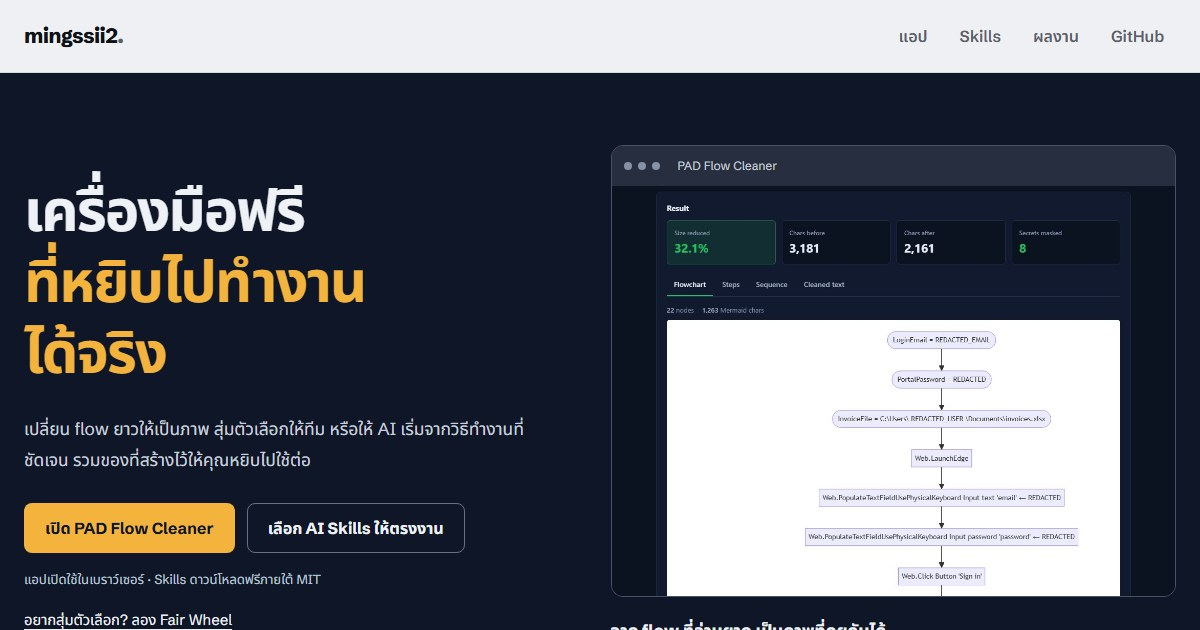
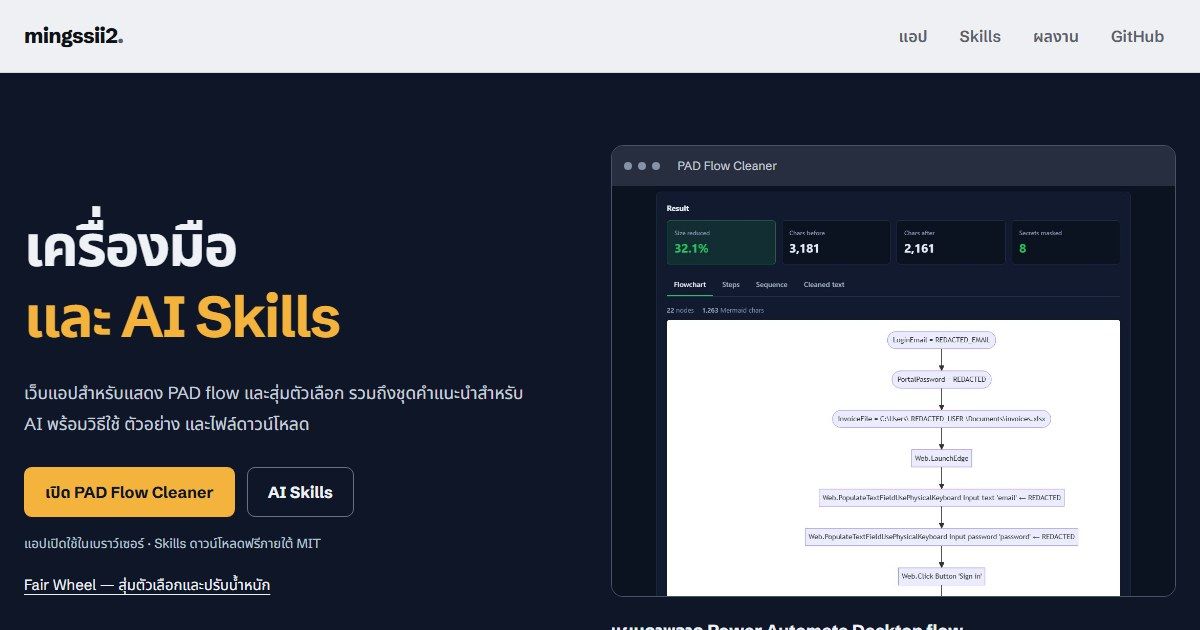
refine: use neutral task descriptions

diff --git a/index.html b/index.html
@@ -2,10 +2,10 @@
 <html lang="th">
 <head>
 <meta charset="utf-8"><meta name="viewport" content="width=device-width, initial-scale=1, viewport-fit=cover">
-<title>mingssii2 — เครื่องมือฟรีและ AI Skills สำหรับงานจริง</title>
+<title>mingssii2 — เว็บแอปและ AI Skills</title>
 <meta name="description" content="อ่าน PAD flow ให้เป็นภาพ สุ่มตัวเลือกด้วย Fair Wheel และเลือก AI Skills สำหรับวางแผน ค้นคว้า เขียนโค้ด และตรวจสคริปต์ พร้อมตัวอย่าง วิธีใช้ และดาวน์โหลดฟรี">
-<meta property="og:title" content="เครื่องมือฟรี ที่หยิบไปทำงานได้จริง — mingssii2">
-<meta property="og:description" content="เปิดแอปใช้ในเบราว์เซอร์ หรือเลือก AI Skills ตามงานที่อยากทำ พร้อมตัวอย่างและ MIT สำหรับชุด Skills">
+<meta property="og:title" content="เว็บแอปและ AI Skills — mingssii2">
+<meta property="og:description" content="เว็บแอปสำหรับ PAD flow และการสุ่มตัวเลือก พร้อม AI Skills วิธีใช้ ตัวอย่างคำสั่ง และไฟล์ดาวน์โหลดภายใต้ MIT">
 <meta property="og:image" content="https://mingssii2.github.io/assets/preview.jpg"><meta property="og:image:alt" content="เครื่องมือฟรีและ AI Skills ของ mingssii2 พร้อมภาพ PAD Flow Cleaner">
 <meta property="og:url" content="https://mingssii2.github.io/"><meta name="theme-color" content="#0f1628">
 <link rel="icon" href="favicon.svg" type="image/svg+xml"><link rel="preconnect" href="https://fonts.googleapis.com"><link rel="preconnect" href="https://fonts.gstatic.com" crossorigin>
@@ -17,107 +17,107 @@
 <ul><li><a href="#featured">แอป</a></li><li><a href="#skills">Skills</a></li><li><a href="#work">ผลงาน</a></li><li class="wide"><a href="https://github.com/mingssii2" target="_blank" rel="noopener">GitHub</a></li></ul></div></nav>
 <main id="main" tabindex="-1">
 <header class="hero" id="top"><div class="wrap hero-grid"><div class="hero-copy">
-<h1>เครื่องมือฟรี<br><span>ที่หยิบไปทำงาน<br>ได้จริง</span></h1>
-<p class="hero-description">เปลี่ยน flow ยาวให้เป็นภาพ สุ่มตัวเลือกให้ทีม หรือให้ AI เริ่มจากวิธีทำงานที่ชัดเจน รวมของที่สร้างไว้ให้คุณหยิบไปใช้ต่อ</p>
-<div class="hero-actions"><a class="button primary" href="https://mingssii2.github.io/pad-flow-cleaner/" target="_blank" rel="noopener">เปิด PAD Flow Cleaner</a><a class="button secondary" href="#skills">เลือก AI Skills ให้ตรงงาน</a></div>
+<h1>เครื่องมือ<br><span>และ AI Skills</span></h1>
+<p class="hero-description">เว็บแอปสำหรับแสดง PAD flow และสุ่มตัวเลือก รวมถึงชุดคำแนะนำสำหรับ AI พร้อมวิธีใช้ ตัวอย่าง และไฟล์ดาวน์โหลด</p>
+<div class="hero-actions"><a class="button primary" href="https://mingssii2.github.io/pad-flow-cleaner/" target="_blank" rel="noopener">เปิด PAD Flow Cleaner</a><a class="button secondary" href="#skills">AI Skills</a></div>
 <p class="hero-note">แอปเปิดใช้ในเบราว์เซอร์ · Skills ดาวน์โหลดฟรีภายใต้ MIT</p>
-<a class="hero-more" href="https://mingssii2.github.io/wheel/" target="_blank" rel="noopener">อยากสุ่มตัวเลือก? ลอง Fair Wheel</a>
+<a class="hero-more" href="https://mingssii2.github.io/wheel/" target="_blank" rel="noopener">Fair Wheel — สุ่มตัวเลือกและปรับน้ำหนัก</a>
 </div><figure class="hero-proof"><div class="browser"><div class="bar"><i></i><i></i><i></i><span>PAD Flow Cleaner</span></div><img src="assets/shot-pad-result.jpg" width="1100" height="800" alt="ผลจาก flow ตัวอย่างใน PAD Flow Cleaner แสดงแผนภาพและข้อความที่ปิดข้อมูลตามรูปแบบที่ตรวจพบ" fetchpriority="high"></div>
-<figcaption><strong>จาก flow ที่อ่านยาก เป็นภาพที่คุยกันได้</strong><span>ภาพผลลัพธ์จาก flow ตัวอย่างในแอป</span></figcaption></figure></div></header>
+<figcaption><strong>แผนภาพจาก Power Automate Desktop flow</strong><span>ภาพผลลัพธ์จาก flow ตัวอย่างในแอป</span></figcaption></figure></div></header>
 
 <section class="featured" id="featured" aria-labelledby="apps-heading"><div class="wrap">
-<div class="section-head"><h2 id="apps-heading">เปิดแล้วลองได้เลย</h2><p>แอปฟรีในเบราว์เซอร์ ไม่ต้องสมัครสมาชิก</p></div>
-<article class="feature pad"><div class="copy"><h3>อ่าน flow ให้เข้าใจ<br>ก่อนส่งต่อให้ใคร</h3><p>วาง flow จาก Power Automate Desktop เพื่อดูแผนภาพ สรุปขั้นตอน และข้อความฉบับย่อ ใช้คุยกับทีม หรือตรวจงานก่อนนำไปให้ AI ช่วยต่อ</p>
-<ul><li>มี flow ตัวอย่างให้ลอง</li><li>ประมวลผลในเบราว์เซอร์</li><li>ดาวน์โหลดผลลัพธ์ได้</li></ul>
-<div class="feature-actions"><a class="button primary" href="https://mingssii2.github.io/pad-flow-cleaner/" target="_blank" rel="noopener">ลอง PAD Flow Cleaner ฟรี</a><a class="text-link" href="https://github.com/mingssii2/pad-flow-cleaner" target="_blank" rel="noopener">อ่าน source</a></div>
+<div class="section-head"><h2 id="apps-heading">เว็บแอป</h2><p>แอปฟรีในเบราว์เซอร์ ไม่ต้องสมัครสมาชิก</p></div>
+<article class="feature pad"><div class="copy"><h3>PAD Flow Cleaner</h3><p>วาง flow จาก Power Automate Desktop เพื่อดูแผนภาพ สรุปขั้นตอน และข้อความฉบับย่อ ใช้คุยกับทีม หรือตรวจงานก่อนนำไปให้ AI ช่วยต่อ</p>
+<ul><li>มี flow ตัวอย่างในแอป</li><li>ประมวลผลในเบราว์เซอร์</li><li>ดาวน์โหลดผลลัพธ์ได้</li></ul>
+<div class="feature-actions"><a class="button primary" href="https://mingssii2.github.io/pad-flow-cleaner/" target="_blank" rel="noopener">เปิด PAD Flow Cleaner</a><a class="text-link" href="https://github.com/mingssii2/pad-flow-cleaner" target="_blank" rel="noopener">อ่าน source</a></div>
 <p class="product-limit">ช่วยปิดข้อมูลลับตามรูปแบบที่ตรวจพบ ควรตรวจผลลัพธ์ก่อนแชร์เสมอ</p></div>
 <div class="browser"><div class="bar"><i></i><i></i><i></i><span>PAD Flow Cleaner</span></div><img src="assets/shot-pad.jpg" width="799" height="609" alt="หน้าจอ PAD Flow Cleaner สำหรับวาง flow และดูผลลัพธ์" loading="lazy"></div></article>
-<article class="feature wheel"><div class="copy"><h3>เลือกไม่ลงตัว?<br>ให้วงล้อช่วยตัดสิน</h3><p>ใส่ตัวเลือก ปรับน้ำหนัก แล้วหมุน เหมาะกับกิจกรรมในทีม จับตัวเลือก หรือเรื่องเล็ก ๆ ที่อยากให้การสุ่มช่วยตัดสิน พร้อมแชร์ชุดตัวเลือกผ่านลิงก์</p>
+<article class="feature wheel"><div class="copy"><h3>Fair Wheel</h3><p>สุ่มจากรายการตัวเลือก ปรับน้ำหนักของแต่ละรายการ และแชร์ชุดตัวเลือกผ่านลิงก์ ใช้กับกิจกรรมหรือการสุ่มตัวเลือกในทีม</p>
 <ul><li>ปรับน้ำหนักได้</li><li>แชร์ตัวเลือกให้ทีม</li><li>อ่านหลักการสุ่มได้</li></ul>
-<div class="feature-actions"><a class="button primary" href="https://mingssii2.github.io/wheel/" target="_blank" rel="noopener">เปิดวงล้อสุ่มฟรี</a><a class="text-link" href="https://github.com/mingssii2/wheel" target="_blank" rel="noopener">อ่าน source</a></div></div>
+<div class="feature-actions"><a class="button primary" href="https://mingssii2.github.io/wheel/" target="_blank" rel="noopener">เปิด Fair Wheel</a><a class="text-link" href="https://github.com/mingssii2/wheel" target="_blank" rel="noopener">อ่าน source</a></div></div>
 <div class="browser"><div class="bar"><i></i><i></i><i></i><span>Fair Wheel</span></div><img src="assets/shot-wheel.jpg" width="799" height="596" alt="Fair Wheel พร้อมวงล้อและช่องปรับตัวเลือกกับน้ำหนัก" loading="lazy"></div></article>
 </div></section>
 
 <section class="skills" id="skills" aria-labelledby="skills-heading"><div class="wrap">
-<div class="skills-intro"><div><h2 id="skills-heading">ให้ AI มีวิธีทำงาน<br>ที่หยิบใช้ซ้ำได้</h2><p class="skills-lead">เริ่มจากงานที่คุณอยากทำ</p></div><div><p>Skill คือชุดคำแนะนำและไฟล์ประกอบที่ช่วยให้ AI ไล่งานเป็นขั้นตอน ตั้งแต่วางแผน ค้นคว้า เขียนโค้ด ไปจนถึงตรวจสคริปต์ เลือกเฉพาะตัวที่ตรงกับงาน ไม่จำเป็นต้องติดตั้งทั้งหมด</p><p class="skills-terms">ดาวน์โหลดฟรี · MIT · ฉบับทดลองสำหรับ AI agent ที่รองรับ Skills</p><a class="text-link" href="#skill-start">ยังไม่เคยใช้ Skills? ดูวิธีเริ่ม</a></div></div>
+<div class="skills-intro"><div><h2 id="skills-heading">AI Skills</h2><p class="skills-lead">แยกตามประเภทงาน</p></div><div><p>Skill คือชุดคำแนะนำและไฟล์ประกอบที่ช่วยให้ AI ไล่งานเป็นขั้นตอน ตั้งแต่วางแผน ค้นคว้า เขียนโค้ด ไปจนถึงตรวจสคริปต์ เลือกเฉพาะตัวที่ตรงกับงาน ไม่จำเป็นต้องติดตั้งทั้งหมด</p><p class="skills-terms">ดาวน์โหลดฟรี · MIT · ฉบับทดลองสำหรับ AI agent ที่รองรับ Skills</p><a class="text-link" href="#skill-start">วิธีติดตั้งและใช้งาน</a></div></div>
 <nav class="skill-picker" aria-label="เลือก Skills ตามงาน"><a href="#skill-second-brain-agents-plan">วางแผนงาน</a><a href="#skill-solution-research">ค้นคว้าทางเลือก</a><a href="#skill-second-brain-coding">เขียนและแก้โค้ด</a><a href="#skill-skill-evaluate">ประเมิน Skills</a><a href="#skill-gas-review">ตรวจ Apps Script</a><a href="#skill-office-script-review">ตรวจ Office Scripts</a></nav>
 <div class="skill-list"><article class="skill-row" id="skill-second-brain-agents-plan" aria-labelledby="title-second-brain-agents-plan">
- <div class="skill-copy"><h3 id="title-second-brain-agents-plan">จากไอเดียกว้าง ๆ เป็นแผนที่คุยต่อได้</h3><p class="skill-problem">มีไอเดียแล้ว แต่ยังไม่แน่ใจว่าจะเริ่มจากตรงไหน?</p><p>ให้ AI ช่วยแยกเป้าหมาย เปรียบเทียบทางเลือก และสรุปสิ่งที่ตัดสินใจแล้ว พร้อมส่งต่อให้คนหรือ AI ทำงานต่อ</p>
+ <div class="skill-copy"><h3 id="title-second-brain-agents-plan">วางแผนงานและสรุปทางเลือก</h3><p class="skill-problem">สำหรับไอเดียหรือโครงการที่ยังต้องกำหนดขอบเขต</p><p>ให้ AI ช่วยแยกเป้าหมาย เปรียบเทียบทางเลือก และสรุปสิ่งที่ตัดสินใจแล้ว พร้อมส่งต่อให้คนหรือ AI ทำงานต่อ</p>
  <ul class="skill-benefits"><li>มองเห็นทางเลือกและสิ่งที่ต้องแลก</li><li>รู้ว่าต้องตอบคำถามไหนก่อนลงมือ</li><li>ได้แผนส่งต่อที่รักษาขอบเขตงาน</li></ul>
  <div class="skill-actions"><a class="button primary" href="skills/downloads/second-brain-agents-plan.zip" download>ดาวน์โหลด Planning</a><a class="text-link" href="https://github.com/mingssii2/mingssii2.github.io/blob/main/skills/second-brain-agents-plan/README.md" target="_blank" rel="noopener">วิธีใช้ Planning</a></div>
  <p class="package-meta"><code>second-brain-agents-plan</code> · 3.2.0-preview.1 · MIT</p></div>
- <div class="skill-example"><div class="example-top"><h4>ลองเริ่มบทสนทนาแบบนี้</h4><button type="button" hidden data-copy-target="prompt-second-brain-agents-plan" aria-describedby="copy-second-brain-agents-plan">คัดลอกคำสั่ง</button></div>
+ <div class="skill-example"><div class="example-top"><h4>ตัวอย่างคำสั่ง</h4><button type="button" hidden data-copy-target="prompt-second-brain-agents-plan" aria-describedby="copy-second-brain-agents-plan">คัดลอกคำสั่ง</button></div>
  <blockquote id="prompt-second-brain-agents-plan">ใช้ $second-brain-agents-plan ช่วยวางแผนระบบจองห้องประชุมสำหรับทีมเล็ก เปรียบเทียบใช้ของเดิมกับสร้างเอง แล้วสรุปทางเลือก ข้อจำกัด และขั้นถัดไปที่ฉันต้องตัดสินใจ</blockquote><p class="copy-status" id="copy-second-brain-agents-plan" role="status" aria-live="polite"></p>
  <p class="example-result"><strong>ผลลัพธ์ที่มุ่งหวัง</strong> ทางเลือก เหตุผล ข้อจำกัด และแผนส่งต่อ</p>
  <details><summary>ดูหลักฐานและข้อจำกัดของ Planning</summary><div class="skill-detail"><p>รุ่น 3.2.0 ได้ 10/10 ใน 4 outputs ใหม่ (2 โจทย์ × 2 รอบ) ในการเปรียบเทียบกับ 3.3.0; รุ่น 3.3.0 ได้เฉลี่ย 9.17/10 ในกลุ่มเดียวกัน</p><p>การตรวจแบบปิดชื่อรุ่นโดย AI และการตรวจข้อเท็จจริงภายหลัง; ไม่ใช่ผู้ตรวจภายนอกหรือผู้ใช้จริง การแยก filesystem ไม่สมบูรณ์ และไม่มี telemetry ต้นทุน รุ่น 3.3.0 เคยมี critical failure 1 output ในกลุ่ม historical ซึ่งแยกจาก 4 outputs ใหม่นี้</p>
  <p>การอ่านคำสั่งของรุ่น local 3.2.0: G 8.25/10 · F 8.75/10 โดย AI ที่ช่วยผู้พัฒนา ไม่ใช่ผู้รับรองอิสระ F คือความเหมาะกับเจ้าของเว็บและยัง provisional คะแนนนี้ยังไม่ใช่ผลทดสอบของ public preview</p>
  <p>ขอบเขต planning ชัดและใช้เดี่ยวได้; คำสั่งค่อนข้างยาวและยังมีความตึงระหว่างรูปแบบส่งมอบกับการเขียนไฟล์</p><p>sample เดิม 17 sessions: พบ path ใน 4 sessions และ explicit request ใน 4 sessions เป็นสัญญาณการอ้างถึง ไม่ใช่จำนวนรันสำเร็จ</p>
  <a class="text-link" href="https://github.com/mingssii2/mingssii2.github.io/blob/main/skills/second-brain-agents-plan/SKILL.md" target="_blank" rel="noopener">อ่านคำสั่ง Planning ทั้งหมด</a></div></details></div></article><article class="skill-row" id="skill-solution-research" aria-labelledby="title-solution-research">
- <div class="skill-copy"><h3 id="title-solution-research">หาวิธีที่เหมาะ ก่อนเสียแรงสร้างใหม่</h3><p class="skill-problem">โจทย์เดียว มีหลายวิธีทำ เลือกทางไหนดี?</p><p>ให้ AI สำรวจของที่มีอยู่ ตรวจข้อจำกัดและแหล่งอ้างอิง แล้วเทียบวิธีทำตามงานจริงของคุณ ตั้งแต่ใช้ของเดิมจนถึงสร้างเอง</p>
+ <div class="skill-copy"><h3 id="title-solution-research">ค้นคว้าและเปรียบเทียบวิธีทำ</h3><p class="skill-problem">สำหรับการตัดสินใจระหว่างใช้ของเดิม เชื่อมระบบ หรือสร้างเอง</p><p>ให้ AI สำรวจของที่มีอยู่ ตรวจข้อจำกัดและแหล่งอ้างอิง แล้วเทียบวิธีทำตามงานจริงของคุณ ตั้งแต่ใช้ของเดิมจนถึงสร้างเอง</p>
  <ul class="skill-benefits"><li>เห็นวิธีอื่นนอกเหนือจากคำตอบแรก</li><li>แยกสิ่งที่รู้แล้วกับสิ่งที่ต้องตรวจ</li><li>ได้เหตุผลว่าควรเริ่มทางไหน</li></ul>
  <div class="skill-actions"><a class="button primary" href="skills/downloads/solution-research.zip" download>ดาวน์โหลด Research</a><a class="text-link" href="https://github.com/mingssii2/mingssii2.github.io/blob/main/skills/solution-research/README.md" target="_blank" rel="noopener">วิธีใช้ Research</a></div>
  <p class="package-meta"><code>solution-research</code> · 3.1.0-preview.1 · MIT</p></div>
- <div class="skill-example"><div class="example-top"><h4>ลองเริ่มบทสนทนาแบบนี้</h4><button type="button" hidden data-copy-target="prompt-solution-research" aria-describedby="copy-solution-research">คัดลอกคำสั่ง</button></div>
+ <div class="skill-example"><div class="example-top"><h4>ตัวอย่างคำสั่ง</h4><button type="button" hidden data-copy-target="prompt-solution-research" aria-describedby="copy-solution-research">คัดลอกคำสั่ง</button></div>
  <blockquote id="prompt-solution-research">ใช้ $solution-research ฉันต้องส่งข้อมูลระหว่างสองระบบทุกวัน ช่วยเปรียบเทียบใช้ของเดิม connector และเขียนเอง ระบุข้อมูลที่ยังขาด ข้อจำกัด ค่าใช้จ่ายที่ตรวจได้ และแหล่งอ้างอิง</blockquote><p class="copy-status" id="copy-solution-research" role="status" aria-live="polite"></p>
  <p class="example-result"><strong>ผลลัพธ์ที่มุ่งหวัง</strong> วิธีที่ทำได้ ข้อจำกัด แหล่งอ้างอิง และสิ่งที่ต้องตรวจเพิ่ม</p>
  <details><summary>ดูหลักฐานและข้อจำกัดของ Research</summary><div class="skill-detail"><p>รุ่น 3.1.0 ได้ 10/10 ในโจทย์ research 2 ข้อ ข้อละ 1 trial; baseline 3.0.0 ได้ 7/10 และ 8/10 มี negative control ร่วมที่ทั้งสองรุ่นได้ 10/10</p><p>โจทย์เขียนโดยผู้แก้ skill; AI grader ปิดบังได้บางส่วนและมี ceiling effect ทดสอบบน host ที่มี discovery tools; fallback บน host อื่นยังไม่พิสูจน์ ยอด subagent tokens ของชุดทดลองรวม 4 cases เพิ่ม 5.6% จึงไม่อ้างว่าประหยัด</p>
  <p>การอ่านคำสั่งของรุ่น local 3.1.0: G 8.50/10 · F 8.62/10 โดย AI ที่ช่วยผู้พัฒนา ไม่ใช่ผู้รับรองอิสระ F คือความเหมาะกับเจ้าของเว็บและยัง provisional คะแนนนี้ยังไม่ใช่ผลทดสอบของ public preview</p>
  <p>สำรวจหลาย family และตรวจข้อโต้แย้งได้; workflow ระดับ standard หนักสำหรับคำถามแคบ จึงต้องเลือกระดับให้ถูก</p><p>sample เดิม 17 sessions: พบ path ใน 1 sessions และ explicit request ใน 1 sessions เป็นสัญญาณการอ้างถึง ไม่ใช่จำนวนรันสำเร็จ</p>
  <a class="text-link" href="https://github.com/mingssii2/mingssii2.github.io/blob/main/skills/solution-research/SKILL.md" target="_blank" rel="noopener">อ่านคำสั่ง Research ทั้งหมด</a></div></details></div></article><article class="skill-row" id="skill-second-brain-coding" aria-labelledby="title-second-brain-coding">
- <div class="skill-copy"><h3 id="title-second-brain-coding">ให้ AI ไล่ต้นเหตุ ก่อนลงมือแก้โค้ด</h3><p class="skill-problem">อยากให้ AI แก้โค้ด โดยเข้าใจผลกระทบด้วย?</p><p>เริ่มจากเส้นทางโค้ดและจุดที่ใช้ร่วมกัน ใช้ของเดิมก่อน แล้วส่งมอบการแก้ที่มีขอบเขต พร้อมผลตรวจและสิ่งที่ยังไม่พิสูจน์</p>
+ <div class="skill-copy"><h3 id="title-second-brain-coding">วิเคราะห์และแก้ไขโค้ด</h3><p class="skill-problem">สำหรับงานโค้ดที่ต้องตรวจต้นเหตุและผลกระทบ</p><p>เริ่มจากเส้นทางโค้ดและจุดที่ใช้ร่วมกัน ใช้ของเดิมก่อน แล้วส่งมอบการแก้ที่มีขอบเขต พร้อมผลตรวจและสิ่งที่ยังไม่พิสูจน์</p>
  <ul class="skill-benefits"><li>ตรวจ caller และจุดที่ใช้ร่วมกัน</li><li>เลือกการแก้ที่เล็กและตรงต้นเหตุ</li><li>ทิ้งวิธีตรวจซ้ำสำหรับ logic สำคัญ</li></ul>
  <div class="skill-actions"><a class="button primary" href="skills/downloads/second-brain-coding.zip" download>ดาวน์โหลด Coding</a><a class="text-link" href="https://github.com/mingssii2/mingssii2.github.io/blob/main/skills/second-brain-coding/README.md" target="_blank" rel="noopener">วิธีใช้ Coding</a></div>
  <p class="package-meta"><code>second-brain-coding</code> · 3.1.0-preview.1 · MIT</p></div>
- <div class="skill-example"><div class="example-top"><h4>ลองเริ่มบทสนทนาแบบนี้</h4><button type="button" hidden data-copy-target="prompt-second-brain-coding" aria-describedby="copy-second-brain-coding">คัดลอกคำสั่ง</button></div>
+ <div class="skill-example"><div class="example-top"><h4>ตัวอย่างคำสั่ง</h4><button type="button" hidden data-copy-target="prompt-second-brain-coding" aria-describedby="copy-second-brain-coding">คัดลอกคำสั่ง</button></div>
  <blockquote id="prompt-second-brain-coding">ใช้ $second-brain-coding ช่วยแก้ validation ใน helper ที่ CLI และ API ใช้ร่วมกัน ไล่ caller ก่อนแก้ รักษาค่า 0 ที่ถูกต้อง และทิ้ง runnable check ที่จับปัญหาเดิมได้</blockquote><p class="copy-status" id="copy-second-brain-coding" role="status" aria-live="polite"></p>
  <p class="example-result"><strong>ผลลัพธ์ที่มุ่งหวัง</strong> การแก้ที่มีขอบเขตชัด พร้อมผลตรวจและสิ่งที่ยังไม่พิสูจน์</p>
  <details><summary>ดูหลักฐานและข้อจำกัดของ Coding</summary><div class="skill-detail"><p>รุ่น local 3.1.0: local artifact checks ผ่าน T1/T2/T5; อีก 5 scenarios เป็น walkthrough ที่ผู้แก้เห็นโจทย์ ไม่ใช่ fresh agent trials</p><p>ยังไม่มี A/B ที่เทียบเท่ากัน ไม่มี human comprehension, cold handoff หรือ whole-run token savings ที่วัดได้ ฉบับ public ปรับการตั้งค่า vault จึงยังไม่รับคะแนนพฤติกรรมของรุ่น local โดยอัตโนมัติ</p>
  <p>การอ่านคำสั่งของรุ่น local 3.1.0: G 8.88/10 · F 9.00/10 โดย AI ที่ช่วยผู้พัฒนา ไม่ใช่ผู้รับรองอิสระ F คือความเหมาะกับเจ้าของเว็บและยัง provisional คะแนนนี้ยังไม่ใช่ผลทดสอบของ public preview</p>
  <p>สอดคล้องกับ diff เล็กและ root cause; local รุ่นเดิมพึ่ง vault ส่วนตัว ฉบับเตรียมเผยแพร่ต้องใช้ได้เมื่อไม่มี vault</p><p>sample เดิม 17 sessions: พบ path ใน 9 sessions และ explicit request ใน 0 sessions เป็นสัญญาณการอ้างถึง ไม่ใช่จำนวนรันสำเร็จ</p>
  <a class="text-link" href="https://github.com/mingssii2/mingssii2.github.io/blob/main/skills/second-brain-coding/SKILL.md" target="_blank" rel="noopener">อ่านคำสั่ง Coding ทั้งหมด</a></div></details></div></article><article class="skill-row" id="skill-skill-evaluate" aria-labelledby="title-skill-evaluate">
- <div class="skill-copy"><h3 id="title-skill-evaluate">เลือก skill จากหลักฐานที่มี</h3><p class="skill-problem">ติดตั้งไว้หลาย skill แต่ตัวไหนควรเก็บหรือปรับ?</p><p>ให้ AI แยกคุณภาพคำสั่ง ความเหมาะกับงาน และผลทดลองจริง แล้วสรุปว่าจะใช้ ทดลอง ปรับ หรือหยุดใช้ พร้อมเหตุผล</p>
+ <div class="skill-copy"><h3 id="title-skill-evaluate">ประเมิน Skills จากหลักฐาน</h3><p class="skill-problem">สำหรับทบทวนคุณภาพ ขอบเขต และความเหมาะกับงาน</p><p>ให้ AI แยกคุณภาพคำสั่ง ความเหมาะกับงาน และผลทดลองจริง แล้วสรุปว่าจะใช้ ทดลอง ปรับ หรือหยุดใช้ พร้อมเหตุผล</p>
  <ul class="skill-benefits"><li>คะแนนคำสั่งแยกจากผลทำงาน</li><li>เห็นข้อจำกัดของผู้ตรวจและ sample</li><li>รู้ว่าต้องพิสูจน์อะไรเพิ่ม</li></ul>
  <div class="skill-actions"><a class="button primary" href="skills/downloads/skill-evaluate.zip" download>ดาวน์โหลด Evaluation</a><a class="text-link" href="https://github.com/mingssii2/mingssii2.github.io/blob/main/skills/skill-evaluate/README.md" target="_blank" rel="noopener">วิธีใช้ Evaluation</a></div>
  <p class="package-meta"><code>skill-evaluate</code> · 3.0.0-preview.1 · MIT</p></div>
- <div class="skill-example"><div class="example-top"><h4>ลองเริ่มบทสนทนาแบบนี้</h4><button type="button" hidden data-copy-target="prompt-skill-evaluate" aria-describedby="copy-skill-evaluate">คัดลอกคำสั่ง</button></div>
+ <div class="skill-example"><div class="example-top"><h4>ตัวอย่างคำสั่ง</h4><button type="button" hidden data-copy-target="prompt-skill-evaluate" aria-describedby="copy-skill-evaluate">คัดลอกคำสั่ง</button></div>
  <blockquote id="prompt-skill-evaluate">ใช้ $skill-evaluate ประเมิน skill นี้จาก source และหลักฐานที่มี แยกคุณภาพคำสั่ง ความเหมาะกับงาน และผลทดลองจริง บอกสิ่งที่ยังไม่ทดสอบ และข้อเสนอว่าจะใช้หรือปรับอะไร</blockquote><p class="copy-status" id="copy-skill-evaluate" role="status" aria-live="polite"></p>
  <p class="example-result"><strong>ผลลัพธ์ที่มุ่งหวัง</strong> เหตุผลในการใช้หรือปรับ พร้อมขอบเขตความน่าเชื่อถือ</p>
  <details><summary>ดูหลักฐานและข้อจำกัดของ Evaluation</summary><div class="skill-detail"><p>รุ่น 3.0.0 มี synthetic smoke 1 case ได้ 10/10 ในรายงานเดิม โดย agent เดียวสร้างและให้คะแนนเอง</p><p>ไม่ใช่การรับรองจากบุคคลที่สาม ตัวประเมินและรายงานนี้อยู่ใน workflow เดียวกับผู้พัฒนา; ไม่มี independent certification หรือผล production</p>
  <p>การอ่านคำสั่งของรุ่น local 3.0.0: G 8.50/10 · F 8.62/10 โดย AI ที่ช่วยผู้พัฒนา ไม่ใช่ผู้รับรองอิสระ F คือความเหมาะกับเจ้าของเว็บและยัง provisional คะแนนนี้ยังไม่ใช่ผลทดสอบของ public preview</p>
  <p>แยก static/behavior และ critical failures ชัด; การประเมินหลายมิติมีต้นทุน ต้อง reuse หลักฐานและจำกัด trial budget</p><p>sample เดิม 17 sessions: พบ path ใน 0 sessions และ explicit request ใน 0 sessions เป็นสัญญาณการอ้างถึง ไม่ใช่จำนวนรันสำเร็จ</p>
  <a class="text-link" href="https://github.com/mingssii2/mingssii2.github.io/blob/main/skills/skill-evaluate/SKILL.md" target="_blank" rel="noopener">อ่านคำสั่ง Evaluation ทั้งหมด</a></div></details></div></article><article class="skill-row" id="skill-gas-review" aria-labelledby="title-gas-review">
- <div class="skill-copy"><h3 id="title-gas-review">ตรวจ Apps Script ก่อนเจอปัญหาตอนรัน</h3><p class="skill-problem">เขียน Google Apps Script แล้วอยากตรวจอีกชั้น?</p><p>ให้ AI ตรวจ API ของ Apps Script รูปร่าง event ข้อมูลว่าง และ log ที่อาจมีข้อมูลลับ พร้อมแยกสิ่งที่ต้องไปลองในระบบจริง</p>
+ <div class="skill-copy"><h3 id="title-gas-review">ตรวจ Google Apps Script</h3><p class="skill-problem">สำหรับตรวจ source ก่อนทดสอบบน Apps Script จริง</p><p>ให้ AI ตรวจ API ของ Apps Script รูปร่าง event ข้อมูลว่าง และ log ที่อาจมีข้อมูลลับ พร้อมแยกสิ่งที่ต้องไปลองในระบบจริง</p>
  <ul class="skill-benefits"><li>แยก event ของ Forms กับ Sheets</li><li>จับการเรียก API ผิด host</li><li>ชี้ข้อมูลที่ควรตรวจใน log</li></ul>
  <div class="skill-actions"><a class="button primary" href="skills/downloads/gas-review.zip" download>ดาวน์โหลด GAS Review</a><a class="text-link" href="https://github.com/mingssii2/mingssii2.github.io/blob/main/skills/gas-review/README.md" target="_blank" rel="noopener">วิธีใช้ Google Apps Script</a></div>
  <p class="package-meta"><code>gas-review</code> · 3.1.0-preview.1 · MIT</p></div>
- <div class="skill-example"><div class="example-top"><h4>ลองเริ่มบทสนทนาแบบนี้</h4><button type="button" hidden data-copy-target="prompt-gas-review" aria-describedby="copy-gas-review">คัดลอกคำสั่ง</button></div>
+ <div class="skill-example"><div class="example-top"><h4>ตัวอย่างคำสั่ง</h4><button type="button" hidden data-copy-target="prompt-gas-review" aria-describedby="copy-gas-review">คัดลอกคำสั่ง</button></div>
  <blockquote id="prompt-gas-review">ใช้ $gas-review ตรวจ onFormSubmit นี้ว่าใช้ event ของ Google Forms หรือ Google Sheets ถูกหรือไม่ มี API ที่ไม่รองรับ ข้อมูลว่าง หรือข้อมูลลับใน log ไหม แยกสิ่งที่ต้องทดสอบบน Apps Script จริงด้วย</blockquote><p class="copy-status" id="copy-gas-review" role="status" aria-live="polite"></p>
  <p class="example-result"><strong>ผลลัพธ์ที่มุ่งหวัง</strong> จุดที่ต้องแก้พร้อมเหตุผล และรายการที่ต้องทดลองใน Apps Script จริง</p>
  <details><summary>ดูหลักฐานและข้อจำกัดของ Google Apps Script</summary><div class="skill-detail"><p>รุ่น 3.0.0 เคยมี self-graded smoke 1 case; รุ่นที่ติดตั้งปัจจุบัน 3.1.0 ยังไม่มี fresh behavioral score ที่เทียบได้ในหลักฐานชุดนี้</p><p>คะแนนรุ่นเก่าไม่ถ่ายมารุ่น 3.1.0 หรือฉบับ public; ยังไม่ได้รัน Save, trigger, permission และ quota ใน host จริง</p>
  <p>การอ่านคำสั่งของรุ่น local 3.1.0: G 8.75/10 · F 9.00/10 โดย AI ที่ช่วยผู้พัฒนา ไม่ใช่ผู้รับรองอิสระ F คือความเหมาะกับเจ้าของเว็บและยัง provisional คะแนนนี้ยังไม่ใช่ผลทดสอบของ public preview</p>
  <p>trigger เฉพาะ host และแยก static/live ชัด; checklist ต้องตรวจ official API สดเมื่อไม่แน่ใจและยังมีโอกาส false positive</p><p>sample เดิม 17 sessions: พบ path ใน 4 sessions และ explicit request ใน 0 sessions เป็นสัญญาณการอ้างถึง ไม่ใช่จำนวนรันสำเร็จ</p>
  <a class="text-link" href="https://github.com/mingssii2/mingssii2.github.io/blob/main/skills/gas-review/SKILL.md" target="_blank" rel="noopener">อ่านคำสั่ง Google Apps Script ทั้งหมด</a></div></details></div></article><article class="skill-row" id="skill-office-script-review" aria-labelledby="title-office-script-review">
- <div class="skill-copy"><h3 id="title-office-script-review">ตรวจสคริปต์ Excel ให้ตรงกับที่ใช้จริง</h3><p class="skill-problem">Office Script ดูถูกต้อง แต่กังวลตอนนำไปรัน?</p><p>ให้ AI ตรวจความสับสนระหว่าง Office.js กับ ExcelScript รวมถึงชนิดข้อมูลและสัญญา Run script ก่อนนำไปทดสอบกับ workbook และ Power Automate</p>
+ <div class="skill-copy"><h3 id="title-office-script-review">ตรวจ Office Scripts</h3><p class="skill-problem">สำหรับสคริปต์ Excel และการเรียกผ่าน Power Automate</p><p>ให้ AI ตรวจความสับสนระหว่าง Office.js กับ ExcelScript รวมถึงชนิดข้อมูลและสัญญา Run script ก่อนนำไปทดสอบกับ workbook และ Power Automate</p>
  <ul class="skill-benefits"><li>ตรวจ API ให้ตรงกับ ExcelScript</li><li>รักษา API ที่ถูกต้อง ไม่ฟันธงเกินหลักฐาน</li><li>แยก static review จากผลรัน cloud</li></ul>
  <div class="skill-actions"><a class="button primary" href="skills/downloads/office-script-review.zip" download>ดาวน์โหลด Office Review</a><a class="text-link" href="https://github.com/mingssii2/mingssii2.github.io/blob/main/skills/office-script-review/README.md" target="_blank" rel="noopener">วิธีใช้ Office Scripts</a></div>
  <p class="package-meta"><code>office-script-review</code> · 3.1.0-preview.1 · MIT</p></div>
- <div class="skill-example"><div class="example-top"><h4>ลองเริ่มบทสนทนาแบบนี้</h4><button type="button" hidden data-copy-target="prompt-office-script-review" aria-describedby="copy-office-script-review">คัดลอกคำสั่ง</button></div>
+ <div class="skill-example"><div class="example-top"><h4>ตัวอย่างคำสั่ง</h4><button type="button" hidden data-copy-target="prompt-office-script-review" aria-describedby="copy-office-script-review">คัดลอกคำสั่ง</button></div>
  <blockquote id="prompt-office-script-review">ใช้ $office-script-review ตรวจ Office Script นี้ว่ามี Office.js ปนหรือไม่ ตรวจ types และ main contract โดยอย่าแจ้งว่า deleteRowsAt เป็น API ผิด และแยกผล static review จากสิ่งที่ต้องรันบน Power Automate จริง</blockquote><p class="copy-status" id="copy-office-script-review" role="status" aria-live="polite"></p>
  <p class="example-result"><strong>ผลลัพธ์ที่มุ่งหวัง</strong> ปัญหา API/type ที่พบ และสิ่งที่ยังต้องพิสูจน์บน workbook จริง</p>
  <details><summary>ดูหลักฐานและข้อจำกัดของ Office Scripts</summary><div class="skill-detail"><p>รุ่น 3.0.0 เคยมี self-graded smoke 1 case และ static gate ของ deleteRowsAt; รุ่นปัจจุบัน 3.1.0 ยังไม่มี fresh behavioral score ที่เทียบได้ในหลักฐานชุดนี้</p><p>ฉบับ public ตัด optional formatter ที่อยู่นอกหน้าที่ review; static check ไม่พิสูจน์ editor compilation, workbook state หรือเวลารัน cloud</p>
  <p>การอ่านคำสั่งของรุ่น local 3.1.0: G 8.62/10 · F 9.00/10 โดย AI ที่ช่วยผู้พัฒนา ไม่ใช่ผู้รับรองอิสระ F คือความเหมาะกับเจ้าของเว็บและยัง provisional คะแนนนี้ยังไม่ใช่ผลทดสอบของ public preview</p>
  <p>มี API authority และ false-positive guard; runtime/formatting ทำให้คำสั่งยาวและต้องแยกหลักฐาน cloud จาก local</p><p>sample เดิม 17 sessions: พบ path ใน 1 sessions และ explicit request ใน 0 sessions เป็นสัญญาณการอ้างถึง ไม่ใช่จำนวนรันสำเร็จ</p>
  <a class="text-link" href="https://github.com/mingssii2/mingssii2.github.io/blob/main/skills/office-script-review/SKILL.md" target="_blank" rel="noopener">อ่านคำสั่ง Office Scripts ทั้งหมด</a></div></details></div></article></div>
-<section class="skill-start" id="skill-start" aria-labelledby="start-heading"><div><h3 id="start-heading">เริ่มจาก skill เดียว<br>กับงานเล็ก ๆ หนึ่งงาน</h3><p>ตัวอย่างคำสั่งบนหน้านี้ใช้หลังเพิ่ม skill ให้ agent ที่รองรับแล้ว ปุ่มคัดลอกไม่ได้เรียก AI หรือส่งข้อมูลไปที่ใด</p></div>
+<section class="skill-start" id="skill-start" aria-labelledby="start-heading"><div><h3 id="start-heading">การติดตั้งและใช้งาน</h3><p>ตัวอย่างคำสั่งบนหน้านี้ใช้หลังเพิ่ม skill ให้ agent ที่รองรับแล้ว ปุ่มคัดลอกไม่ได้เรียก AI หรือส่งข้อมูลไปที่ใด</p></div>
 <ol><li><strong>เลือกและอ่านก่อน</strong><span>เปิดวิธีใช้ ดูขอบเขตและตัวอย่าง แล้วดาวน์โหลด ZIP ของงานที่ต้องการ</span></li><li><strong>เพิ่มให้ agent ที่ใช้</strong><span>แตก ZIP เก็บโฟลเดอร์และไฟล์ประกอบไว้ด้วยกัน แล้วเพิ่มในตำแหน่ง Skills ตามที่ agent รองรับ</span></li><li><strong>ลองกับงานจำลอง</strong><span>คัดลอกคำสั่งตัวอย่าง เรียกชื่อ skill และตรวจผลลัพธ์ก่อนใช้ข้อมูลจริง</span></li></ol></section>
-<details class="skills-method" id="skills-evaluation"><summary>ก่อนเชื่อคะแนน อยากรู้ว่าเราประเมินอย่างไร?</summary><div class="skill-detail"><p>G คือคุณภาพคำสั่ง ส่วน F คือความเหมาะกับงานของเจ้าของเว็บ ทั้งสองเป็นการอ่าน source โดย AI ที่ช่วยผู้พัฒนา ไม่ใช่ certification อิสระ F สูงจึงไม่ได้แปลว่าเหมาะกับทุกคน</p>
+<details class="skills-method" id="skills-evaluation"><summary>วิธีประเมินและความหมายของคะแนน</summary><div class="skill-detail"><p>G คือคุณภาพคำสั่ง ส่วน F คือความเหมาะกับงานของเจ้าของเว็บ ทั้งสองเป็นการอ่าน source โดย AI ที่ช่วยผู้พัฒนา ไม่ใช่ certification อิสระ F สูงจึงไม่ได้แปลว่าเหมาะกับทุกคน</p>
 <p>ผลทำโจทย์จริงแยกจาก G/F และระบุรุ่น จำนวน trials ผู้ตรวจ และข้อจำกัด คะแนนเต็มใน sample เล็กไม่ใช่อัตราสำเร็จทั่วไป Public previews มีการปรับให้พกพาได้ จึงไม่รับคะแนนพฤติกรรมของรุ่น local โดยอัตโนมัติ</p>
 <p>sample การอ้างถึงเดิมวันที่ 4 ต.ค. เหลือ 17 work sessions หลังตัดงานประเมิน 3 sessions ออก ไม่ใช่จำนวนใช้สำเร็จหรือข้อมูลทุกบัญชี ยังไม่มีหลักฐานผลประหยัดเวลา/token หรือการทดสอบความเข้าใจของผู้ใช้จริง</p>
 <p><a href="skills/evidence.json">ดูคะแนน รุ่น และ hashes</a> · <a href="https://github.com/mingssii2/mingssii2.github.io/blob/main/skills/EVALUATION.md" target="_blank" rel="noopener">อ่านวิธีประเมินฉบับเต็ม</a></p></div></details>
-<div class="skills-license"><h3>หยิบไปใช้ ปรับ และแบ่งปันต่อได้</h3><p>ชุด Skills ใช้ MIT อนุญาตให้ดัดแปลง แจก และใช้เชิงพาณิชย์ โดยเก็บ copyright และข้อความ license ไว้ แต่ละ ZIP มี LICENSE รวมอยู่แล้ว เอกสารภายนอกที่อ้างถึงยังเป็นสิทธิ์ของเจ้าของเดิม</p><a class="text-link" href="skills/LICENSE">อ่าน MIT ของชุด Skills</a></div>
+<div class="skills-license"><h3>สิทธิ์การใช้งาน Skills — MIT</h3><p>ชุด Skills ใช้ MIT อนุญาตให้ดัดแปลง แจก และใช้เชิงพาณิชย์ โดยเก็บ copyright และข้อความ license ไว้ แต่ละ ZIP มี LICENSE รวมอยู่แล้ว เอกสารภายนอกที่อ้างถึงยังเป็นสิทธิ์ของเจ้าของเดิม</p><a class="text-link" href="skills/LICENSE">อ่าน MIT ของชุด Skills</a></div>
 </div></section>
 
-<section class="faq" aria-labelledby="faq-heading"><div class="wrap"><div><h2 id="faq-heading">ก่อนเริ่มใช้</h2><p>คำตอบสั้น ๆ ที่ช่วยให้เลือกได้ง่ายขึ้น</p></div><div class="faq-list">
+<section class="faq" aria-labelledby="faq-heading"><div class="wrap"><div><h2 id="faq-heading">ก่อนเริ่มใช้</h2><p>ค่าใช้จ่าย รูปแบบไฟล์ และระบบที่รองรับ</p></div><div class="faq-list">
 <details><summary>ใช้ฟรีแค่ไหน?</summary><p>เว็บแอปและไฟล์ Skills ที่แจกในหน้านี้เปิดใช้หรือดาวน์โหลดได้ฟรี ส่วน AI agent, model หรือบริการภายนอกที่คุณเลือกใช้อาจมีค่าใช้จ่ายตามเงื่อนไขของบริการนั้น</p></details>
 <details><summary>Skill ต่างจาก prompt ทั่วไปอย่างไร?</summary><p>Skill รวมคำแนะนำ วิธีตรวจงาน และไฟล์อ้างอิงให้เรียกใช้ซ้ำตามงาน ส่วน prompt คือคำขอของงานรอบนั้น ตัวอย่างบนหน้านี้ใช้เริ่มบทสนทนาหลังเพิ่ม skill แล้ว ไม่ได้แทนไฟล์ทั้งแพ็กเกจ</p></details>
 <details><summary>ใช้กับ AI ทุกตัวได้เลยไหม?</summary><p>ต้องใช้ agent หรือ host ที่รองรับรูปแบบ Skills และเครื่องมือที่งานนั้นต้องใช้ ตำแหน่งติดตั้งและการเรียกใช้ขึ้นกับ host อ่าน README ของแพ็กเกจก่อน และเริ่มจากงานจำลอง</p></details>
@@ -125,7 +125,7 @@
 </div></div></section>
 <section class="work" id="work"><div class="wrap">
   <div class="section-head"><h2>งานอื่น ๆ ที่เปิดให้ดูต่อ</h2><span class="count" id="count" aria-live="polite"></span></div>
-  <p class="section-intro">เลือกดูแอป งานทดลอง และ source code จาก GitHub ค้นหาตามชื่อหรืองานที่สนใจได้เลย</p>
+  <p class="section-intro">แอป งานทดลอง และ source code จาก GitHub ค้นหาตามชื่อหรือคำอธิบายได้</p>
   <div class="toolbar">
     <label class="search" for="q">
       <svg viewBox="0 0 24 24" fill="none" stroke="currentColor" stroke-width="2" aria-hidden="true"><circle cx="11" cy="11" r="7"/><path d="M20 20l-3.5-3.5"/></svg>
@@ -146,6 +146,5 @@
 </div></section>
 
 
-<section class="closing"><div class="wrap"><div><h2>มีงานที่อยากลองอยู่แล้ว?<br>เริ่มจากตัวที่ตรงกับงานนั้นเลย</h2><p>เปิดแอป หรือเลือก skill เดียวแล้วลองกับโจทย์เล็ก ๆ ของคุณ</p></div><div><a class="button primary" href="#featured">เลือกแอปฟรี</a><a class="button secondary" href="#skills">เลือก AI Skills</a></div></div></section>
 </main><footer class="foot-site"><div class="wrap"><span>สร้างและแบ่งปันโดย mingssii2</span><div><a href="https://github.com/mingssii2/mingssii2.github.io/issues" target="_blank" rel="noopener">แจ้งปัญหาหรือเสนอไอเดีย</a><a href="https://github.com/mingssii2" target="_blank" rel="noopener">GitHub</a></div></div></footer>
 </body></html>

diff --git a/styles.css b/styles.css
@@ -44,8 +44,8 @@ details summary{cursor:pointer;min-height:44px;padding-block:12px;font-weight:50
 .cards{display:grid;grid-template-columns:repeat(auto-fill,minmax(min(100%,280px),1fr));gap:16px}.card{display:grid;grid-template-rows:auto auto 1fr auto;gap:12px;padding:24px;background:var(--surface);border:1px solid var(--line);border-radius:12px;min-width:0;text-decoration:none;transition:border-color 160ms,transform 160ms}.card:hover{border-color:var(--ink);transform:translateY(-3px)}.card h3{font-size:1.2rem;line-height:1.5;margin:0;overflow-wrap:anywhere}.card p{margin:0;color:var(--dim);font-size:.92rem}.card .foot{font-size:.75rem;color:var(--dim);font-variant-numeric:tabular-nums}.card .top{display:flex;flex-wrap:wrap;justify-content:space-between;align-items:center;gap:8px}.card .thumb{overflow:hidden;aspect-ratio:16/10;border-radius:8px;background:var(--frame)}.card .thumb img{width:100%;height:100%;object-fit:cover;object-position:top left}
 .lang{display:inline-flex;align-items:center;gap:8px;font-size:.8rem;color:var(--dim)}.lang i{width:9px;height:9px;border-radius:50%}.pill{display:inline-flex;align-items:center;gap:6px;padding:4px 8px;border-radius:6px;background:var(--chip);font-size:.75rem;color:var(--ink)}.pill.live i{width:7px;height:7px;border-radius:50%;background:var(--pad-ac)}
 .index{list-style:none;padding:0;margin:0;border-top:1px solid var(--ink)}.index a,.index-head{display:grid;grid-template-columns:100px minmax(0,1.1fr) minmax(0,1.4fr) 120px 24px;gap:8px 24px;align-items:baseline}.index a{padding:20px 8px;border-bottom:1px solid var(--line);text-decoration:none;transition:background-color 160ms}.index a:hover{background:var(--surface)}.index .date,.index .desc,.index .arrow{color:var(--dim);font-size:.86rem}.index .date{font-variant-numeric:tabular-nums}.index .name{display:flex;flex-wrap:wrap;align-items:center;gap:8px;font-size:1.1rem;font-weight:600;overflow-wrap:anywhere}.index .desc{min-width:0}.index-head{font-size:.78rem;color:var(--dim);padding:0 8px 12px}.empty{padding:32px 0;color:var(--dim)}
-.closing{background:var(--chip)}.closing>.wrap{display:flex;flex-wrap:wrap;justify-content:space-between;align-items:center;gap:32px;padding-block:56px}.closing h2{font-size:clamp(1.6rem,2.8vw,2.4rem);line-height:1.5;margin-bottom:12px}.closing p{margin:0;color:var(--dim)}.closing>.wrap>div:last-child{display:flex;gap:12px;flex-wrap:wrap}.closing .secondary{border-color:var(--dim)}.foot-site .wrap{display:flex;flex-wrap:wrap;align-items:center;justify-content:space-between;gap:16px;padding-block:28px 36px;font-size:.84rem;color:var(--dim)}.foot-site .wrap>div{display:flex;flex-wrap:wrap;gap:8px 24px}.foot-site a{display:inline-flex;align-items:center;min-height:44px}
+.foot-site .wrap{display:flex;flex-wrap:wrap;align-items:center;justify-content:space-between;gap:16px;padding-block:28px 36px;font-size:.84rem;color:var(--dim)}.foot-site .wrap>div{display:flex;flex-wrap:wrap;gap:8px 24px}.foot-site a{display:inline-flex;align-items:center;min-height:44px}
 @media(max-width:1000px){.hero-grid{gap:32px}.hero h1{font-size:3.3rem}.hero-actions{flex-direction:column;align-items:flex-start}.feature{gap:32px;padding:32px}.feature h3{font-size:2rem}.index a,.index-head{grid-template-columns:88px minmax(0,1fr) 24px}.index .desc{grid-column:2}.index .meta{grid-column:2;grid-row:3}.index .arrow{grid-column:3;grid-row:1}.index-head .h-desc,.index-head .h-meta{display:none}}
 @media(max-width:760px){.hero-grid,.skills-intro,.skill-row,.skill-start,.faq>.wrap,.feature{grid-template-columns:minmax(0,1fr)}.hero-grid{padding-block:40px 48px;gap:36px}.hero h1{font-size:clamp(2.5rem,8vw,3.3rem)}.hero h1 span br{display:none}.hero-description{max-width:56ch}.hero-actions{flex-direction:row;align-items:center}.hero-proof{max-width:600px}.feature{gap:28px}.feature h3 br{display:none}.featured>.wrap,.skills>.wrap{padding-block:56px}.skills-intro{gap:12px;margin-bottom:24px}.skills h2{font-size:clamp(2rem,6.6vw,3rem)}.skill-row{gap:24px;padding-block:32px}.skill-start{gap:20px;padding-top:40px}.faq>.wrap{gap:20px;padding-block:56px}.skill-picker{margin-bottom:28px}.section-head{align-items:start}.work>.wrap{padding-block:56px 64px}}
-@media(max-width:560px){.wrap{padding-inline:20px}.nav .wrap{gap:8px;min-height:64px}.wordmark{font-size:1.15rem}.nav ul{gap:0}.nav ul a{padding:8px;font-size:.9rem}.nav .wide{display:none}.hero-description{font-size:1rem}.hero-actions{align-items:stretch;flex-direction:column}.hero-actions .button{width:100%}.hero-note{font-size:.76rem}.feature{padding:24px;border-radius:12px}.feature-actions{align-items:flex-start;flex-direction:column}.skill-example{padding:20px}.skill-actions{align-items:stretch;flex-direction:column}.skill-actions .text-link{align-self:flex-start}.skill-picker a{padding:8px 12px;font-size:.86rem}.index a,.index-head{grid-template-columns:minmax(0,1fr) 24px}.index .date,.index .desc,.index .meta{grid-column:1;grid-row:auto}.index .name{grid-row:2}.index .arrow{grid-column:2}.index-head{display:none}.closing>.wrap>div:last-child{width:100%}.closing .button{flex:1 1 160px}}
+@media(max-width:560px){.wrap{padding-inline:20px}.nav .wrap{gap:8px;min-height:64px}.wordmark{font-size:1.15rem}.nav ul{gap:0}.nav ul a{padding:8px;font-size:.9rem}.nav .wide{display:none}.hero-description{font-size:1rem}.hero-actions{align-items:stretch;flex-direction:column}.hero-actions .button{width:100%}.hero-note{font-size:.76rem}.feature{padding:24px;border-radius:12px}.feature-actions{align-items:flex-start;flex-direction:column}.skill-example{padding:20px}.skill-actions{align-items:stretch;flex-direction:column}.skill-actions .text-link{align-self:flex-start}.skill-picker a{padding:8px 12px;font-size:.86rem}.index a,.index-head{grid-template-columns:minmax(0,1fr) 24px}.index .date,.index .desc,.index .meta{grid-column:1;grid-row:auto}.index .name{grid-row:2}.index .arrow{grid-column:2}.index-head{display:none}}
 @media(prefers-reduced-motion:reduce){html{scroll-behavior:auto}*,*::before,*::after{animation:none!important;transition:none!important}}

diff --git a/app.js b/app.js
@@ -34,9 +34,9 @@ document.querySelectorAll('[data-copy-target]').forEach(button => {
     button.disabled = true;
     try {
       await navigator.clipboard.writeText(prompt.textContent);
-      status.textContent = 'คัดลอกแล้ว นำไปใช้กับ agent ที่เพิ่ม skill นี้แล้วได้เลย';
+      status.textContent = 'คัดลอกแล้ว ใช้กับ agent ที่ติดตั้ง skill นี้แล้ว';
     } catch {
-      status.textContent = 'คัดลอกอัตโนมัติไม่ได้ เลือกข้อความคำสั่งแล้วคัดลอกเองได้เลย';
+      status.textContent = 'คัดลอกอัตโนมัติไม่ได้ เลือกข้อความคำสั่งเพื่อคัดลอกด้วยตนเอง';
     } finally {
       button.disabled = false;
     }
